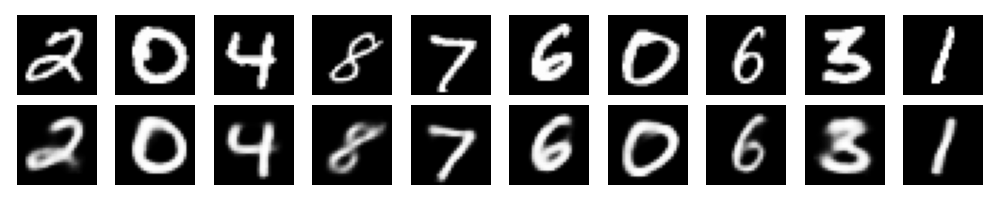
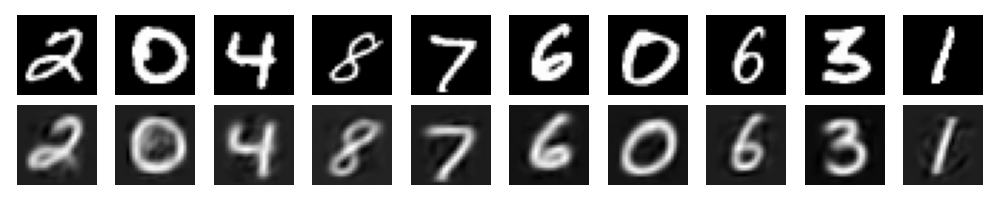
dont use bernoulli

Changed region(s): [[0.0, 0.51, 0.589, 0.93], [0.62, 0.51, 0.992, 0.93]]

diff --git a/vqvae.py b/vqvae.py
@@ -98,7 +98,6 @@ class Decoder(eqx.Module):
                 eqx.nn.Linear(hidden_dim, hidden_dim, key=subkeys[1]),
                 eqx.nn.Lambda(jax.nn.relu),
                 eqx.nn.Linear(hidden_dim, output_dim, key=subkeys[2]),
-                eqx.nn.Lambda(jax.nn.sigmoid),
             ]
         )
 
@@ -132,16 +131,13 @@ def vae_loss(
     keys = jax.random.split(key, len(x))
     reconstructed_x, mu, logvar = eqx.filter_vmap(model)(x, keys)
 
-    recon_loss = jnp.mean(
-        -jnp.sum(
-            x * jnp.log(reconstructed_x + 1e-8)
-            + (1 - x) * jnp.log(1 - reconstructed_x + 1e-8)
-        )
+    recon_loss = jnp.mean(jnp.sum(jnp.square(x - reconstructed_x), axis=-1))
+
+    kl_loss = -0.5 * jnp.mean(
+        jnp.sum(1 + logvar - jnp.square(mu) - jnp.exp(logvar), axis=-1)
     )
 
-    kl_loss = jnp.mean(-0.5 * jnp.sum(1 + logvar - jnp.square(mu) - jnp.exp(logvar)))
     total_loss = recon_loss + kl_loss
-
     return total_loss
 
 
